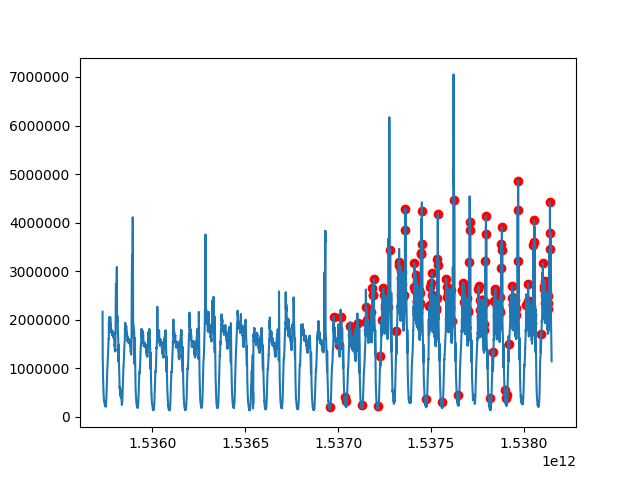
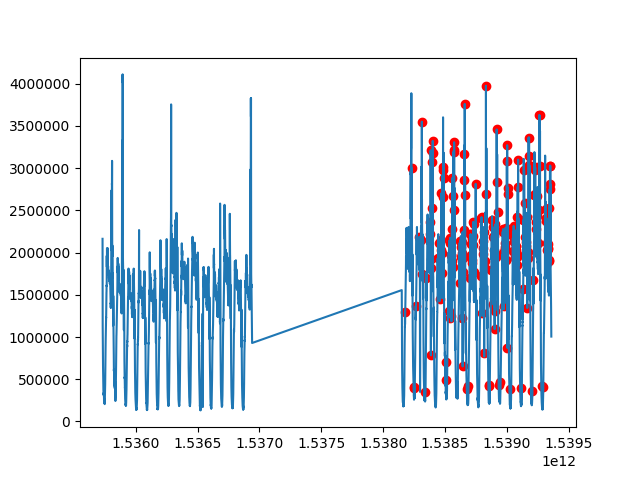
update

diff --git a/lwm.py b/lwm.py
@@ -4,19 +4,74 @@ import pandas as pd
 import my_util as utl
 from conf import *
 
-if __name__ == '__main__':
-    origin_pth = pth.join('rundata', 'origin_data')
-    test_pth = pth.join('rundata', 'test1_data')
-    temp_pth = pth.join('rundata', 'temp')
 
+def read_data(*args):
     df = pd.DataFrame()
 
-    for data_pth in (origin_pth, test_pth):
+    # head = 0
+
+    for data_pth in args:
+        print 'read data from: {}'.format(data_pth)
         for ts_f in os.listdir(data_pth):
+            # head += 1
+            # if head > 100:
+            #     break
             ts = utl.transfer_file_name_to_timestamp(ts_f)
+            print 'ts: {}'.format(ts)
             ts_df = pd.read_csv(pth.join(data_pth, ts_f), header=None, names=ORIGIN_COLUMN, index_col=ORIGIN_ATTRIS)
             df[ts] = ts_df['value']
+            # df = df.append(ts_df)
 
-    print df.head()
+    df.fillna(0.0, inplace=True)
+    # return df.T
+    return df
+
+
+def read_time_df(*args):
+    # ts_f_pth_list = list()
+    ts_list = list()
+    for data_pth in args:
+        print 'read data from: {}'.format(data_pth)
+        for ts_f in os.listdir(data_pth):
+            # ts_f_pth_list.append(pth.join(data_pth,ts_f))
+            ts = utl.transfer_file_name_to_timestamp(ts_f)
+            ts_list.append(int(ts))
+    return pd.DataFrame(pd.Series(ts_list, name='timestamp'))
+
+
+if __name__ == '__main__':
+    origin_pth = pth.join('rundata', 'origin_data')
+    test_pth = pth.join('rundata', 'test2_data')
+
+    abnrm_pth = pth.join('rundata', 'Anomalytime_data_test2.csv')
+    temp_pth = pth.join('rundata', 'temp')
+
+    # df = read_data(origin_pth, test_pth)
+    # df = read_data(origin_pth)
+    # df = read_data(test_pth)
+    # df.sort_index(inplace=True)
+    # print df.head()
+
+    ts_df = read_time_df(origin_pth, test_pth)
+    ts_df['last_timestamp'] = ts_df.apply(lambda r: r['timestamp'] - 5 * 60 * 1000, axis=1)
+    ts_df['datetime'] = pd.to_datetime(ts_df['timestamp'], unit='ms')
+    # ts_df = ts_df.set_index('datetime')
+    ts_df['hour'] = ts_df['datetime'].dt.hour
+    ts_df['minute'] = ts_df['datetime'].dt.minute
+
+    ts_df.sort_values('timestamp', inplace=True)
+    ts_df.set_index('timestamp', inplace=True)
+    ts_df['label'] = 0
+    ab_df = pd.read_csv(abnrm_pth)
+    ab_df['label'] = 1
+    ab_df.set_index('timestamp', inplace=True)
+    ts_df['label'].update(ab_df['label'])
+
+    # print ts_df.head()
+    abnrm_tss = ts_df[ts_df['label'] > 0]
+    # print abnrm_tss.head()
+    abnrm_tss['hm'] = abnrm_tss.apply(lambda r: '{}:{}'.format(r['hour'], r['minute']), axis=1)
+    # abnrm_tss['hm'] = abnrm_tss['{}-{}'.format(abnrm_tss['hour'], abnrm_tss['minute'])]
+    print abnrm_tss['hm'].head()
 
     pass

diff --git a/main.py b/main.py
@@ -110,22 +110,13 @@ if __name__ == '__main__':
     # l1_ret_less_complex_df = l1_generate_result(l1_abnrm_set_f_pth, l1_ps_pth, l1_ret_f_pth, thr=.8)
     l1_ret_less_complex_df = l1_generate_result(l1_abnrm_set_f_pth, l1_ps_pth, l1_ret_f_pth, thr=1.)
 
-    # l1_ret_not_na_df['set'] = l1_ret_not_na_df.apply(ret_to_set, axis=1)
-
-    # print l1_ret_not_na_df['set'].head()
-
     final_ret_df = pd.DataFrame()
-    # print l1_ret_not_na_df.index
-    # final_ret_df['timestamp'] = l1_ret_not_na_df.index
+
+    # final_ret_df['set'] = l1_ret_not_na_df.apply(ret_to_set, axis=1)
     final_ret_df['set'] = l1_ret_less_complex_df.apply(ret_to_set, axis=1)
     na_index = final_ret_df[final_ret_df['set'].isna()].index
     print na_index
     final_ret_df['set'].update(l1_ret_not_na_df.loc[na_index].apply(ret_to_set, axis=1))
-    # final_ret_df['timestamp'] = final_ret_df['d_timestamp'].apply(
-    #     lambda r: (int(time.mktime(dateparser.parse(r).timetuple()))) * 1000)
-    # final_ret_df['td_timestamp'] = pd.to_datetime(final_ret_df['timestamp'], unit='ms')
-    # final_ret_df['set']
-    # print final_ret_df.head()
     final_ret_df.to_csv(final_ret_f_pth)
 
     pass

diff --git a/show_box.py b/show_box.py
@@ -95,7 +95,8 @@ def show_t_value(save_path=pth.join('datapic', 't_values_anm.png')):
     output_pth = pth.join('rundata', 'temp', 't_value_output')
     origin_df = pd.read_csv(pth.join(output_pth, 'origin_t_values.csv'), index_col='timestamp')
     test_df = pd.read_csv(pth.join(output_pth, 'test_t_values.csv'), index_col='timestamp')
-    anm_df = pd.read_csv(pth.join('rundata', 'Anomalytime_data_test1.csv'))
+    # anm_df = pd.read_csv(pth.join('rundata', 'Anomalytime_data_test1.csv'))
+    anm_df = pd.read_csv(pth.join('rundata', 'Anomalytime_data_test2.csv'))
     df = origin_df.append(test_df)
     # df = test_df
     df['anm'] = 0
@@ -149,7 +150,7 @@ if __name__ == '__main__':
     # show_t_values(save_path=pth.join('datapic', 't_values.png'))
     # show_t_values(is_show_pre=True, save_path=pth.join('datapic', 't_values_pre.png'))
     # show_t_value_abnormal(save_path=pth.join('datapic', 't_values_dev.png'))
-    # show_t_value()
+    show_t_value()
 
     # show_check_view_count(save_path=pth.join('datapic', 'check_view_count.png'))
     # show_check_view(save_path=pth.join('datapic', 'check_view.png'))
